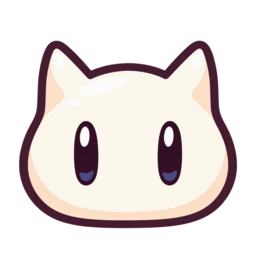
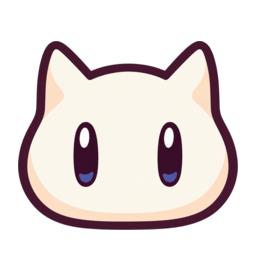
Add colored normal bug assets

diff --git a/script.js b/script.js
@@ -49,16 +49,30 @@ const BUG_FACE_COLORS = {
     19: '#6a6c75'
 };
 
-const normalWhiteBugImage = new Image();
-let normalWhiteBugImageReady = false;
-normalWhiteBugImage.onload = () => {
-    normalWhiteBugImageReady = true;
+const NORMAL_BUG_ASSET_SOURCES = {
+    8: 'assets/images/enemy-normal-white.png',
+    9: 'assets/images/enemy-normal-yellow.png',
+    10: 'assets/images/enemy-normal-blue.png',
+    11: 'assets/images/enemy-normal-red.png',
+    12: 'assets/images/enemy-normal-pink.png'
 };
-normalWhiteBugImage.onerror = () => {
-    normalWhiteBugImageReady = false;
-};
-normalWhiteBugImage.decoding = 'async';
-normalWhiteBugImage.src = 'assets/images/enemy-normal-white.png';
+
+const normalBugImages = {};
+const normalBugImageReady = {};
+
+Object.entries(NORMAL_BUG_ASSET_SOURCES).forEach(([bugType, src]) => {
+    const image = new Image();
+    normalBugImageReady[bugType] = false;
+    image.onload = () => {
+        normalBugImageReady[bugType] = true;
+    };
+    image.onerror = () => {
+        normalBugImageReady[bugType] = false;
+    };
+    image.decoding = 'async';
+    image.src = src;
+    normalBugImages[bugType] = image;
+});
 
 const SHAPES = [
     [],
@@ -1299,7 +1313,7 @@ function drawCustomRoundRect(x, y, w, h, rtl, rtr, rbr, rbl) {
     ctx.closePath();
 }
 
-function drawNormalWhiteBugAsset(px, py, scale = 1.0) {
+function drawNormalBugAsset(px, py, scale = 1.0, bugType = 8) {
     const s = BLOCK_SIZE;
     const isSquashed = Math.floor(performance.now() / 500) % 2 === 1;
     const idleScaleY = isSquashed ? 0.95 : 1.0;
@@ -1312,7 +1326,7 @@ function drawNormalWhiteBugAsset(px, py, scale = 1.0) {
     ctx.imageSmoothingEnabled = true;
     ctx.imageSmoothingQuality = 'high';
     ctx.drawImage(
-        normalWhiteBugImage,
+        normalBugImages[bugType],
         px,
         py + s - drawHeight,
         s,
@@ -1322,8 +1336,8 @@ function drawNormalWhiteBugAsset(px, py, scale = 1.0) {
 }
 
 function drawBug(px, py, scale = 1.0, bugType = 8) {
-    if (bugType === 8 && normalWhiteBugImageReady) {
-        drawNormalWhiteBugAsset(px, py, scale);
+    if (normalBugImageReady[bugType]) {
+        drawNormalBugAsset(px, py, scale, bugType);
         return;
     }
 
